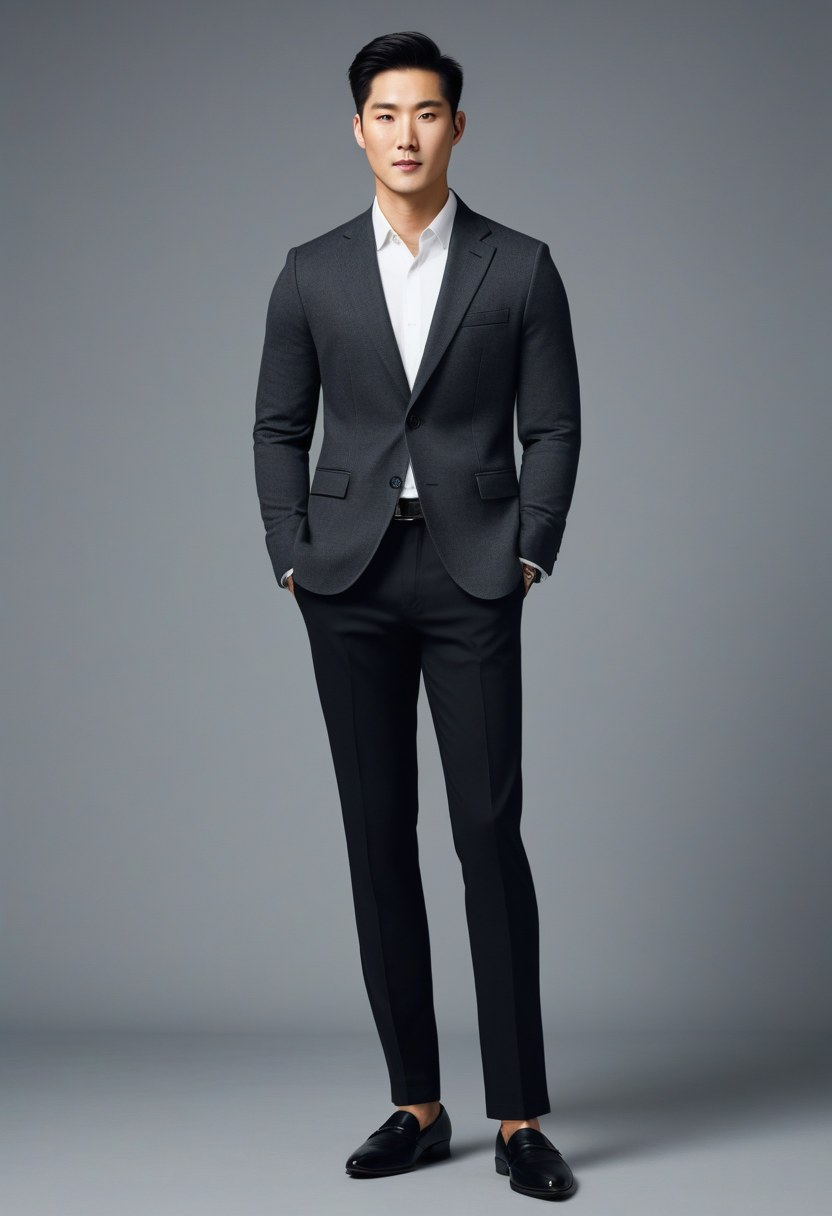
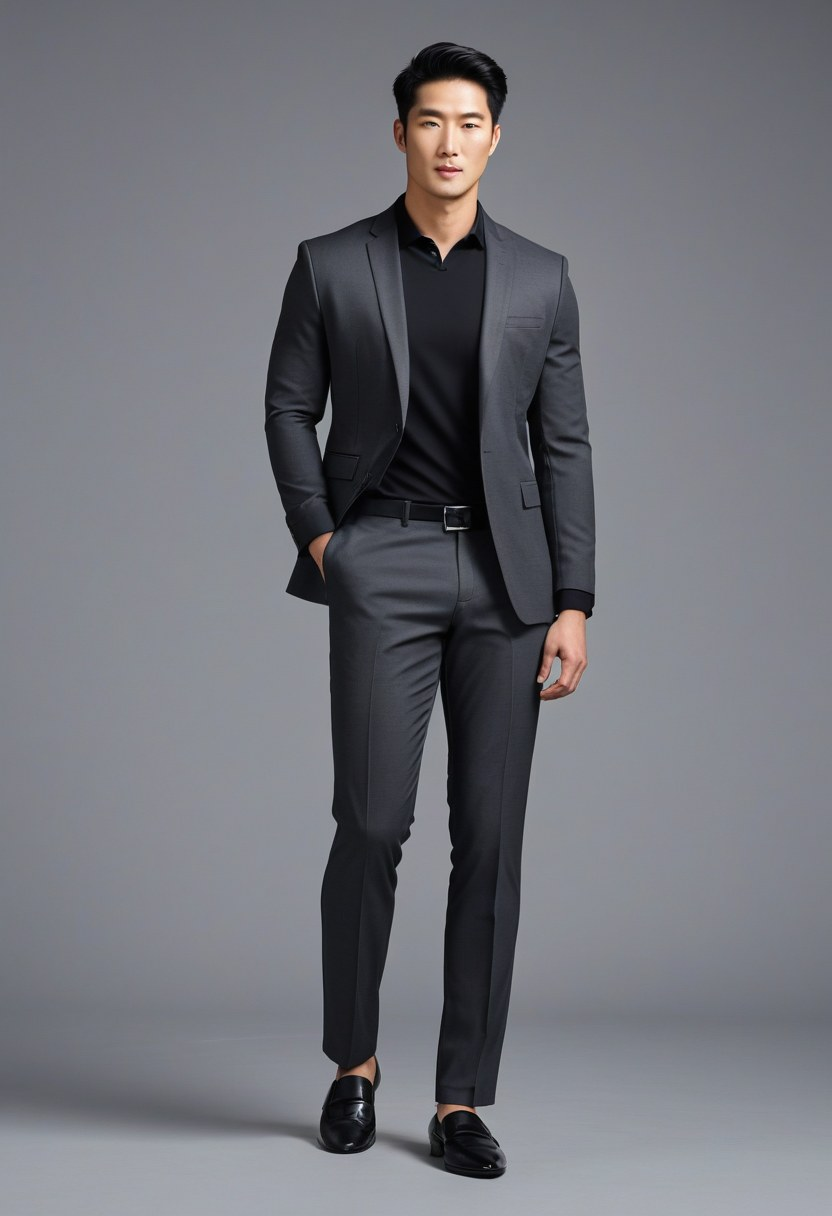
Fix unrealistic men office outfit images

Changed region(s): [[0.0, 0.0, 1.0, 1.0]]

diff --git a/app_flask.py b/app_flask.py
@@ -725,9 +725,9 @@ LOOKBOOKS = {
     "men-office-commute-looks": {
         "title": "Men's Office Commute Outfit Ideas",
         "eyebrow": "Office commute looks",
-        "description": "Six men's office commute outfit ideas across natural smart casual, clean office, soft formal, casual Friday, rainy day, and after-work themes.",
+        "description": "Six men's office commute outfit ideas across natural smart casual, clean office, soft formal, casual Friday, layered commute, and after-work themes.",
         "home_title": "Men's office commute looks",
-        "home_description": "Smart casual, clean office, soft formal, casual Friday, rainy day, and after-work outfits.",
+        "home_description": "Smart casual, clean office, soft formal, casual Friday, layered commute, and after-work outfits.",
         "folder": "men",
         "prefix": "men_look",
         "items": [
@@ -735,7 +735,7 @@ LOOKBOOKS = {
             ("Clean Office", "Charcoal blazer, black knit, tapered trousers, and loafers."),
             ("Soft Formal", "White shirt, navy trousers, lightweight jacket, and minimal watch."),
             ("Casual Friday", "Denim jacket, oxford shirt, straight chinos, and white sneakers."),
-            ("Rainy Day Office", "Beige trench coat, dark knit, black trousers, leather shoes, and umbrella."),
+            ("Layered Commute", "Charcoal blazer, dark knit, slim trousers, and polished loafers."),
             ("After-Work Casual", "Black overshirt, slim trousers, Chelsea boots, and evening city styling."),
         ],
     },
@@ -744,6 +744,10 @@ LOOKBOOKS = {
 LOOKBOOK_REDIRECTS = {
     "women-ai-lookbook": "women-office-commute-looks",
     "men-style-guide": "men-office-commute-looks",
+}
+
+LOOKBOOK_ITEM_REDIRECTS = {
+    ("men-office-commute-looks", "rainy-day-office"): "layered-commute",
 }
 
 LOOKBOOK_THEME_GUIDES = {
@@ -797,10 +801,10 @@ LOOKBOOK_THEME_GUIDES = {
         "summary": "A casual Friday outfit that uses denim carefully while keeping the rest clean.",
         "tips": ["Keep the denim jacket dark, neat, and logo-free.", "Use chinos or clean trousers rather than distressed jeans.", "Plain white sneakers work best when they are clean."],
     },
-    ("men-office-commute-looks", "rainy-day-office"): {
-        "keyword": "men's rainy day office outfit",
-        "summary": "A practical rainy commute outfit with a trench coat, dark knit, and weather-friendly shoes.",
-        "tips": ["Use darker trousers to hide splash marks.", "Pick leather shoes with enough grip.", "A beige trench adds polish without needing a full suit."],
+    ("men-office-commute-looks", "layered-commute"): {
+        "keyword": "men's layered office commute outfit",
+        "summary": "A practical layered commute outfit with a blazer, dark knit, slim trousers, and polished shoes.",
+        "tips": ["Use a blazer or overshirt as the structured layer.", "Keep trousers clean and not overly skinny.", "Choose polished shoes that still work for walking."],
     },
     ("men-office-commute-looks", "after-work-casual"): {
         "keyword": "men's office to evening casual outfit",
@@ -898,7 +902,7 @@ OUTFIT_GUIDES = {
         "title": "Rainy Day Office Outfit",
         "keyword": "rainy day office outfit",
         "description": "Office commute outfit ideas for rainy days, wet sidewalks, and unpredictable weather.",
-        "image": "lookbooks/men/men_look_05.jpg",
+        "image": "lookbooks/women/women_look_05.jpg",
         "intro": "A rainy office outfit needs to protect the commute without looking like outdoor gear once you arrive.",
         "sections": [
             ("Choose the outer layer first", "A trench coat, long coat, or water-resistant jacket should cover enough of the outfit for the actual walk."),
@@ -2835,6 +2839,8 @@ def lookbook_item_page(slug, item_slug):
     items = _lookbook_items(slug, lookbook)
     item = next((entry for entry in items if entry["slug"] == item_slug), None)
     if not item:
+        if (slug, item_slug) in LOOKBOOK_ITEM_REDIRECTS:
+            return redirect(url_for("lookbook_item_page", slug=slug, item_slug=LOOKBOOK_ITEM_REDIRECTS[(slug, item_slug)]), code=301)
         return redirect(url_for("lookbook_page", slug=slug))
     lang = _active_lang()
     return render_template(
